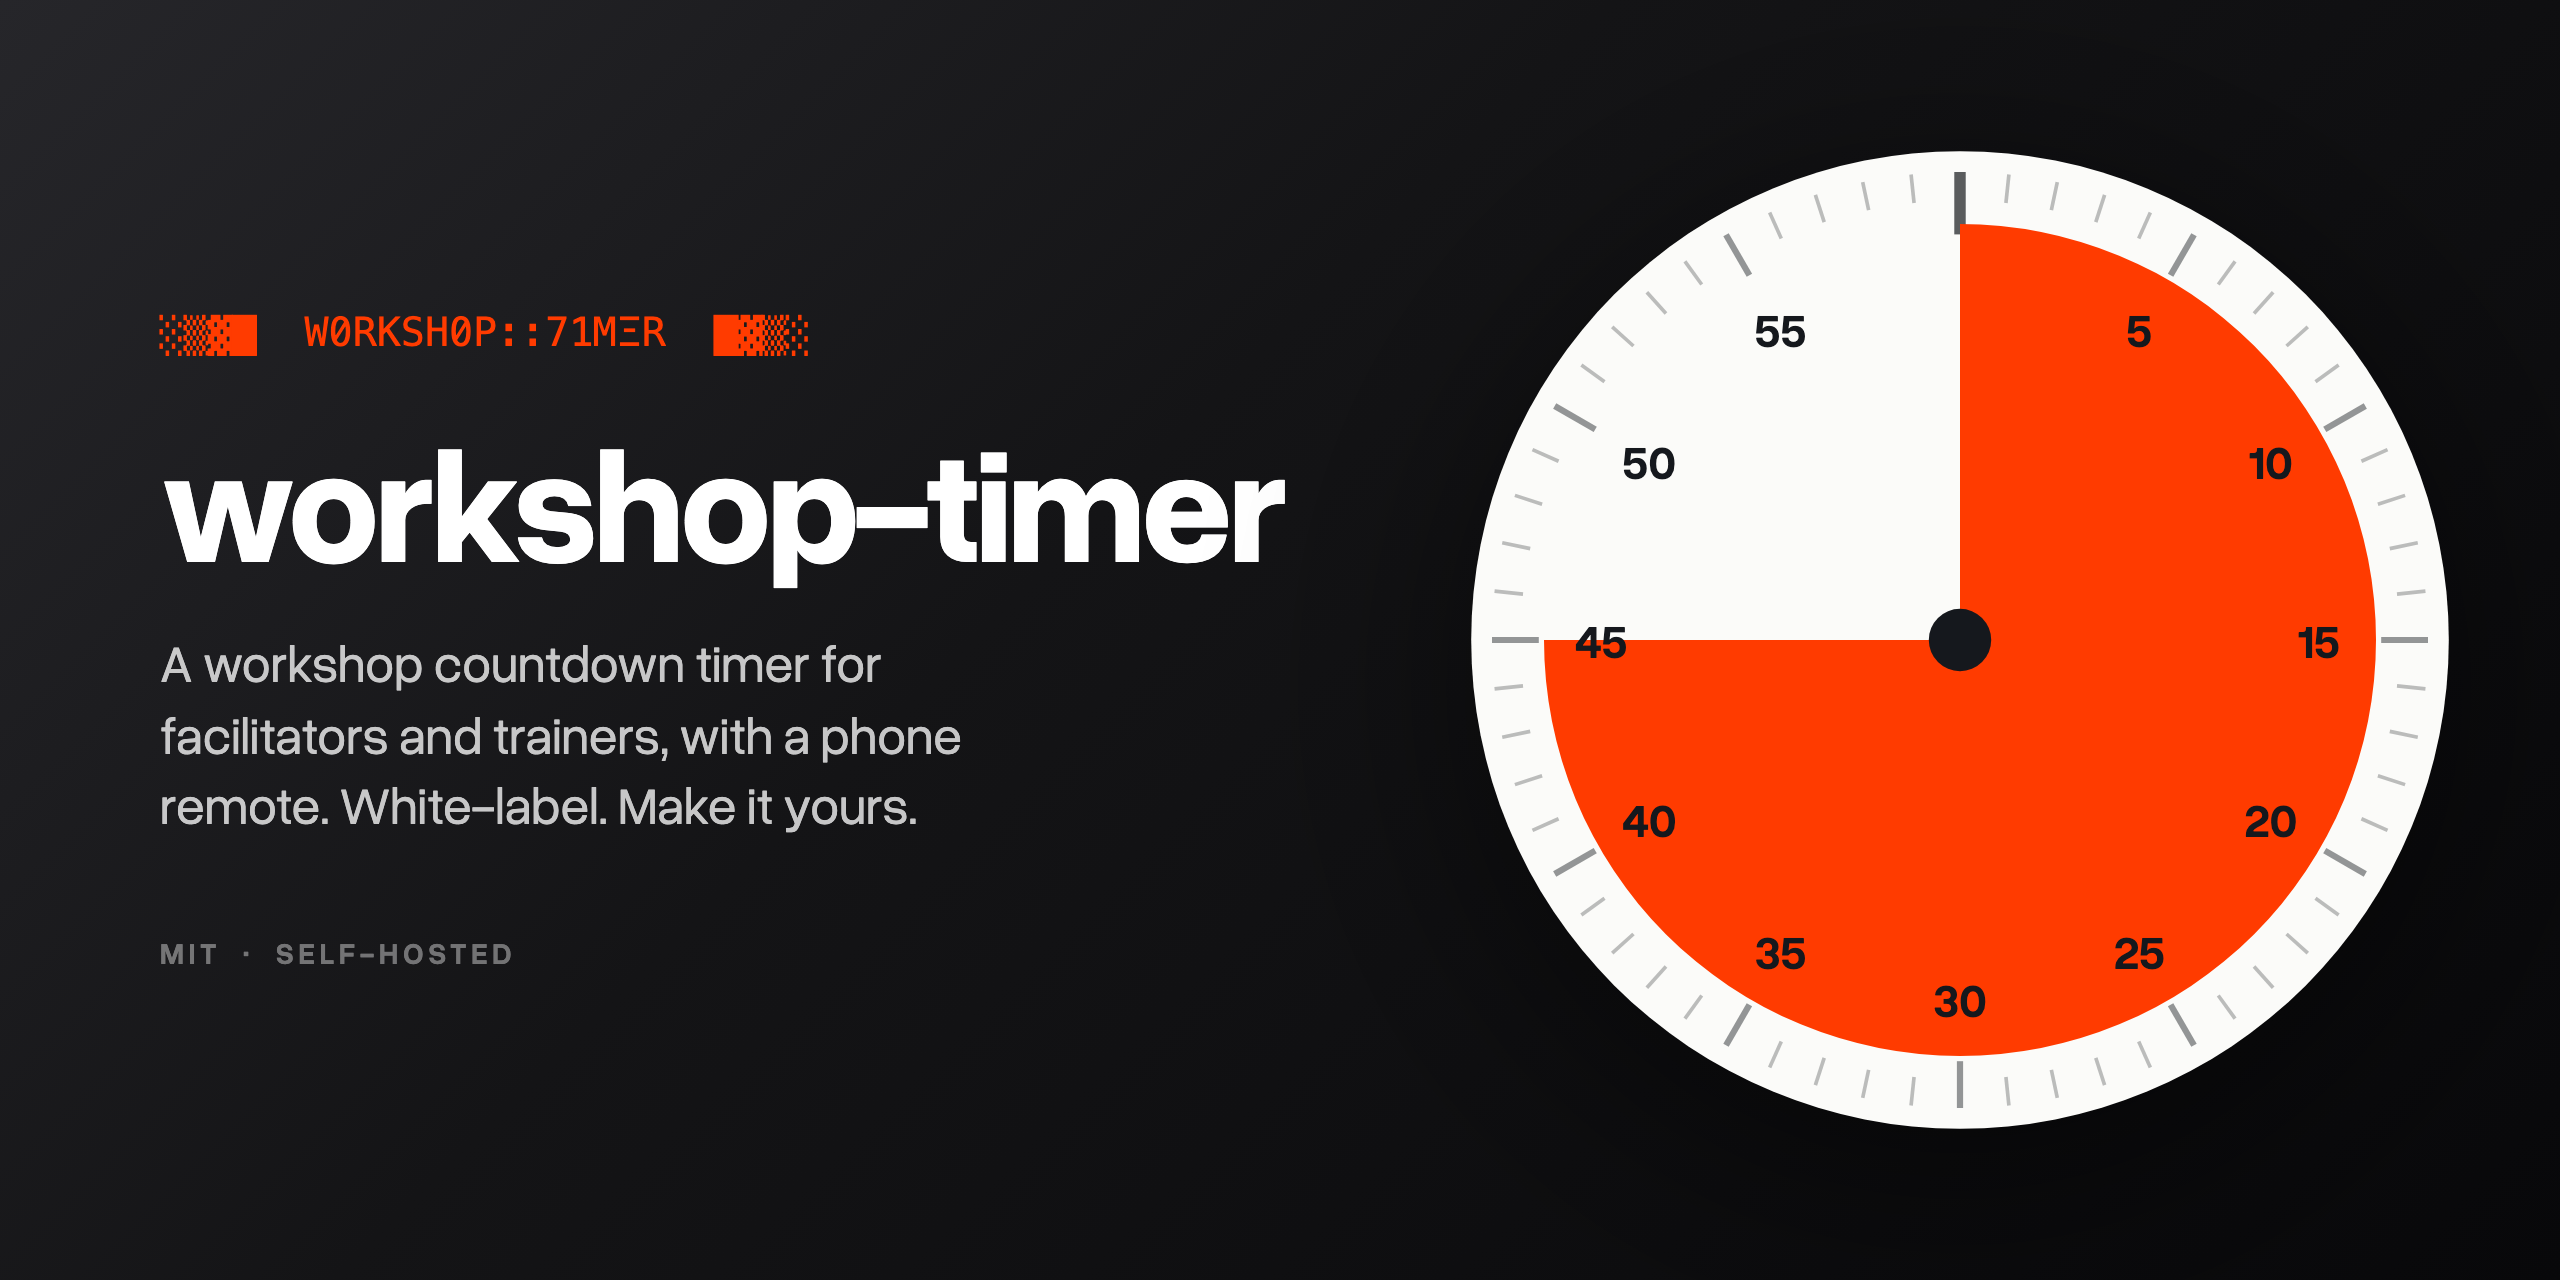
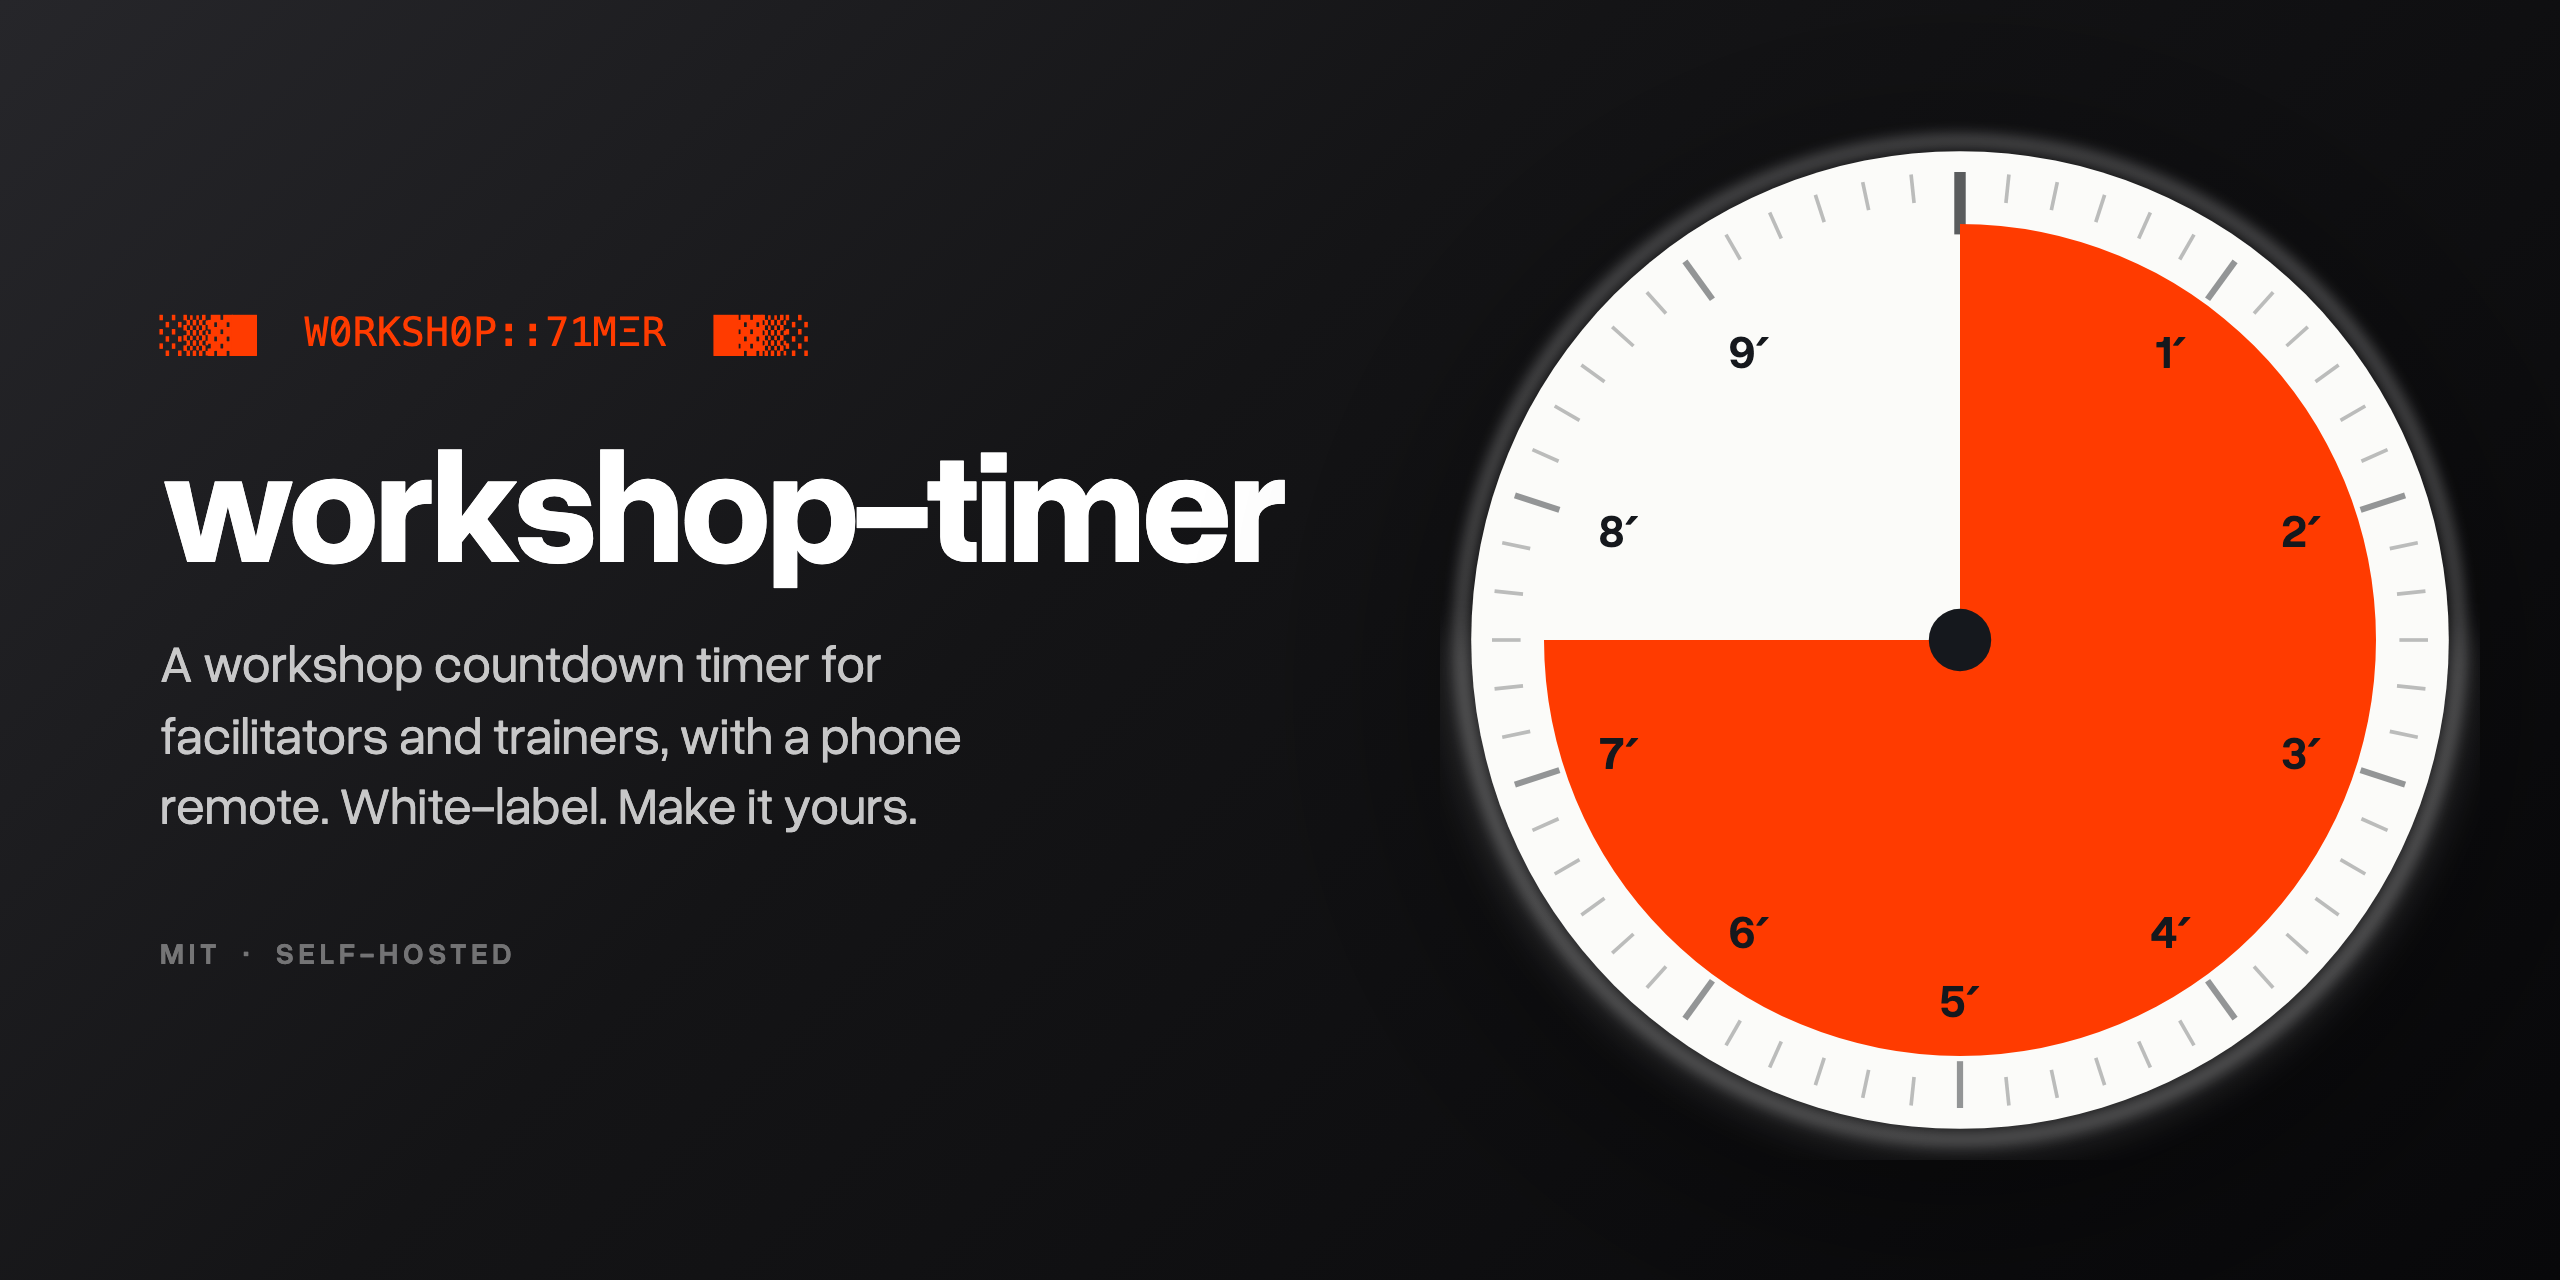
Open at 10′, and docs and pictures for the proportional dial
The screen, the phone and a room opened without a length all start at 10′,
one constant. The README shows the dial at three lengths and the finish;
every picture is re-shot from the production build, and the social card
carries the new dial.

diff --git a/src/components/timer-remote.tsx b/src/components/timer-remote.tsx
@@ -6,7 +6,7 @@ import { Pause, Play, RotateCcw } from "lucide-react"
 import { useBrand } from "@/components/brand-provider"
 import { Watermark } from "@/components/watermark"
 import { needsPlinth } from "@/lib/brand"
-import { PRESETS, formatClock, parseDuration } from "@/lib/timer-clock"
+import { DEFAULT_MINUTES, PRESETS, formatClock, parseDuration } from "@/lib/timer-clock"
 import { type RelayResult, readRoom, writeRoom } from "@/lib/timer-relay-client"
 // Type only: the relay module imports node:crypto and must never be bundled
 // for a browser. Keep this an `import type`.
@@ -57,8 +57,8 @@ function TimerRemote() {
   const [entry, setEntry] = React.useState("")
   const [link, setLink] = React.useState<Link | null>(null)
 
-  const [durationMs, setDurationMs] = React.useState(15 * 60_000)
-  const [remainingMs, setRemainingMs] = React.useState(15 * 60_000)
+  const [durationMs, setDurationMs] = React.useState(DEFAULT_MINUTES * 60_000)
+  const [remainingMs, setRemainingMs] = React.useState(DEFAULT_MINUTES * 60_000)
   const [running, setRunning] = React.useState(false)
   const [flash, setFlash] = React.useState<string | null>(null)
   // Raw keystrokes while the field has focus, the live clock the rest of the

diff --git a/src/lib/timer-room.ts b/src/lib/timer-room.ts
@@ -1,6 +1,6 @@
 import { randomInt } from "node:crypto"
 
-import { MAX_SECONDS, clampMs } from "@/lib/timer-clock"
+import { DEFAULT_MINUTES, MAX_SECONDS, clampMs } from "@/lib/timer-clock"
 
 // The relay behind the phone remote: a handful of live countdowns held
 // in memory, each addressed by a short code the screen shows and the phone
@@ -152,7 +152,7 @@ export function createRoom(seed: {
 }): TimerRoom {
   const now = Date.now()
   sweep(now)
-  const durationMs = clampMs(seed.durationMs) ?? 15 * 60_000
+  const durationMs = clampMs(seed.durationMs) ?? DEFAULT_MINUTES * 60_000
   const restingMs = Math.min(durationMs, Math.max(0, Math.round(seed.remainingMs)))
   const running = seed.running && restingMs > 0
   const code = newCode()

diff --git a/src/components/timer-screen.tsx b/src/components/timer-screen.tsx
@@ -11,6 +11,7 @@ import { Watermark } from "@/components/watermark"
 import { playGong, playTick } from "@/lib/timer-audio"
 import { needsPlinth } from "@/lib/brand"
 import {
+  DEFAULT_MINUTES,
   MAX_SECONDS,
   durationFromHash,
   formatClock,
@@ -40,7 +41,7 @@ import { cn } from "@/lib/utils"
 // live in a panel that appears when you move and leaves when you stop, which
 // is why there is no separate full-screen layout: see `timer-chrome.tsx`.
 
-function TimerScreen({ defaultMinutes = 15 }: { defaultMinutes?: number }) {
+function TimerScreen({ defaultMinutes = DEFAULT_MINUTES }: { defaultMinutes?: number }) {
   const brand = useBrand()
 
   const [durationMs, setDurationMs] = React.useState(defaultMinutes * 60_000)

diff --git a/src/lib/timer-clock.ts b/src/lib/timer-clock.ts
@@ -17,6 +17,10 @@
  *  used to: numbered in fives, 45's halfway (22′30″) falls between two. */
 export const PRESETS = [1, 2, 4, 6, 8, 10, 14, 20, 30, 40, 50, 60, 90] as const
 
+/** What a fresh screen, a phone that has not heard from it yet, and a room
+ *  opened without a length all start on. One of `PRESETS`, so a chip is lit. */
+export const DEFAULT_MINUTES = 10
+
 export const MAX_MINUTES = 180
 export const MIN_SECONDS = 1
 export const MAX_SECONDS = MAX_MINUTES * 60

diff --git a/README.md b/README.md
@@ -10,7 +10,7 @@
 
 Built for workshops, trainings, hackathons, jams and demos. White label by design. Customize it and make it yours.
 
-<img src="docs/at-rest.png" alt="A black screen with a large white dial. A red-orange wedge covers a third of the face, which is numbered 5 to 55. Below it the readout says 20:00." width="820">
+<img src="docs/at-rest.png" alt="A black screen with a large white dial, two thirds of it red-orange. Below it the readout says 06:30." width="820">
 
 </div>
 
@@ -18,10 +18,16 @@ Built for workshops, trainings, hackathons, jams and demos. White label by desig
 
 ## What makes it different
 
-**The dial measures an hour, not a percentage.** Like a kitchen timer, the face
-is always one hour and the wedge is the slice of that hour still to come, so
-fifteen minutes reads as a quarter turn from the back of the room with nobody
-reading a number. The numerals tell you where the edge will land.
+**Every length fills the dial.** One minute or ninety, the dial starts full and
+empties as the time runs, so the back row can see how much is left without
+reading a number.
+
+<img src="docs/lengths.png" alt="Three dials side by side: a 2 minute timer with 01:30 left, a 10 minute timer with 04:00 left, and a 90 minute timer with 1:00:00 left." width="820">
+
+**Nobody misses the end.** A gong, a big red *Time's up!*, and a burst of
+confetti.
+
+<img src="docs/finish.png" alt="The dial replaced by a white disc reading Time's up! in red, with red and white confetti bursting out around it. The readout says 00:00:00." width="820">
 
 **The controls get out of the way.** They appear when you move and leave 2.6
 seconds after you stop, taking the mouse pointer with them. On a projector a
@@ -32,11 +38,11 @@ in a background tab, and a clock that subtracts 100ms per tick quietly loses
 minutes while you present in another window. This one recomputes from a wall
 clock every tick, so it cannot drift.
 
-<img src="docs/controls.png" alt="The same timer with a black control bar across the middle: a row of preset lengths from 1 to 60 minutes, and below it Start, Reset, plus one minute, sound, full screen and phone." width="820">
+<img src="docs/controls.png" alt="The same timer with a black control bar across the middle: a row of lengths from 1 to 90 minutes, and below it Start, Reset, plus one minute, sound, full screen and phone." width="820">
 
 Three keys, because the laptop is usually across the room: `Space` to start or
 pause, `F` for full screen, `R` for the phone. Set the length by typing into the
-readout, by preset, or in the link itself (`/#25`, `/#7:30`).
+readout, by preset, or in the link itself (`/#25`, `/#7:30`). It opens at ten minutes.
 
 The last minute switches the readout to hundredths, lights the rim, shakes the
 face, ticks each second and strikes a gong at zero. All of it goes quiet under
@@ -53,7 +59,7 @@ device drives the clock while both follow.
 
 <table>
 <tr>
-<td width="230"><img src="docs/remote.png" alt="A phone showing Connected to the screen, a grid of minute buttons, the readout 20:00, and large Start and Reset buttons." width="210"></td>
+<td width="230"><img src="docs/remote.png" alt="A phone showing Connected to the screen, a grid of lengths, the readout 10:00, and large Start and Reset buttons." width="210"></td>
 <td>
 
 The relay carries **state, not commands**. A reply says how much time is left,
@@ -74,7 +80,7 @@ after timer all day.
 Everything a brand can change is a CSS custom property, so a new brand is a JSON
 file and never a patch.
 
-<img src="docs/rebranded.png" alt="The same timer on a cream background with a deep orange wedge, showing 45:00." width="820">
+<img src="docs/rebranded.png" alt="The same timer on a cream background with a deep orange wedge, showing 18:00." width="820">
 
 **Ship a brand with the deployment.** Put a file in `brands/` and name it:
 

diff --git a/CONTRIBUTING.md b/CONTRIBUTING.md
@@ -40,10 +40,9 @@ depend on, which will rewrite whole files around your three lines.
 
 ## Things worth knowing before you change them
 
-**The dial is an hour, not a percentage.** The face always represents sixty
-minutes and the wedge is the slice still to come, so a duration over an hour is
-not a bug: the wedge sits full until the clock drops under sixty. Please do not
-"fix" this.
+**The dial is always the whole countdown.** Its marks and numbers come from
+`dialScale` in `src/components/timer-dial.tsx`, for any length. Change the rule
+there rather than special-casing a length.
 
 **The clock is deadline driven, never a counter.** Every tick recomputes from a
 wall clock rather than subtracting from a total, because browsers throttle
